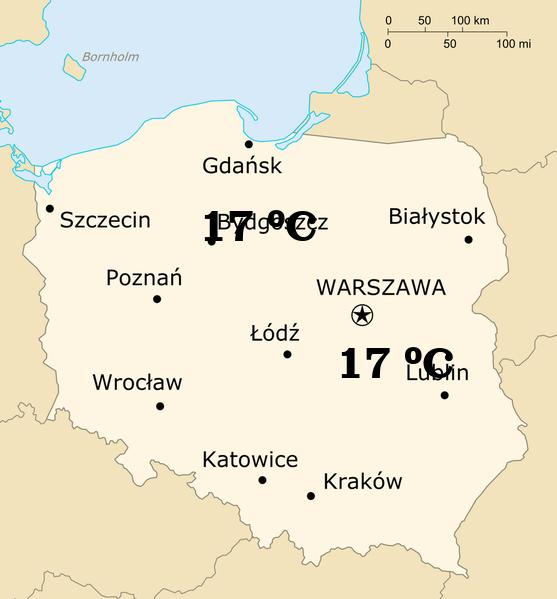
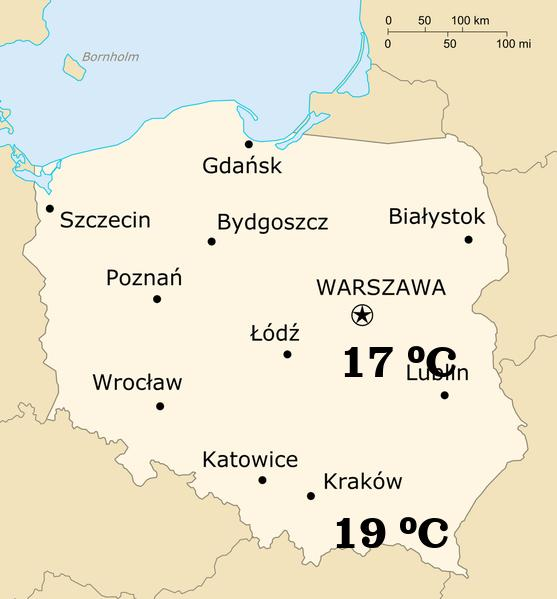
display image on website

Changed region(s): [[0.3662, 0.3306, 0.5799, 0.4207], [0.6104, 0.8414, 0.8241, 0.9316], [0.6104, 0.571, 0.8241, 0.6311]]

diff --git a/web-app/src/main/resources/templates/index.html b/web-app/src/main/resources/templates/index.html
@@ -17,23 +17,26 @@
 <body>
 <div th:replace="fragments/header.html :: header"/>
 <div class="container bg-light text-dark p-4 ">
-    <h1>Prognoza</h1>
+    <img th:src="@{/result.jpg}" />
+<!--    <h1>Prognoza</h1>-->
 
-    <table class="table">
-        <thead>
-        <tr>
-            <th>#</th>
-            <th>Stacja</th>
-            <th>Srednia dobowa temperatura</th>
-        </tr>
-        <tr>
-            <th>1</th>
-            <th>Warszawa - Bielany</th>
-            <th th:text="${temp}">wartosc</th>
-        </tr>
-        </thead>
-    </table>
+<!--    <table class="table">-->
+<!--        <thead>-->
+<!--        <tr>-->
+<!--            <th>#</th>-->
+<!--            <th>Stacja</th>-->
+<!--            <th>Srednia dobowa temperatura</th>-->
+<!--        </tr>-->
+<!--        <tr>-->
+<!--            <th>1</th>-->
+<!--            <th>Warszawa - Bielany</th>-->
+<!--            <th th:text="${temp}">wartosc</th>-->
+<!--        </tr>-->
+<!--        <tr>-->
+<!--            <img src="result.jpg" alt="forecast">-->
+<!--        </tr>-->
+<!--        </thead>-->
+<!--    </table>-->
 </div>
-<img src="E:/Kinga/Studies-mgr/Semestr 3/Praca dyplomowa/System/weather-forecast-predicting-system/result.jpg">
 </body>
 </html>

diff --git a/weather-forecast-predicting-system/actual_weather_prediction.py b/weather-forecast-predicting-system/actual_weather_prediction.py
@@ -6,42 +6,47 @@ import numpy as np
 from numpy import concatenate
 from PIL import Image, ImageFont, ImageDraw
 from constants import *
+
 city = ['warsaw', 'KRAKÓW-OBSERWATORIUM']
-d = {'lat': [52.29958465640118, 50.0649722906938], 'lon': [20.927704121901673, 19.988522784913144]}
-df = DataFrame(data=d)
-actual_data = []
-actual_data = OWMApi.get_actual_weather_data(df['lat'][0], df['lon'][0])
-df = DataFrame(actual_data).transpose()
-values = df.values
-values = values.astype('float32')
-scaler = load('scalers/scaler-' + city[0] + '.joblib')
-values_all = values[:, 0:5]
-values_all = scaler.transform(values_all)
-for i in range(5, 21, 5):
-    values_cut = values[:, i:(i+5)]
-    values_cut = scaler.transform(values_cut)
-    values_all = np.concatenate([values_all, values_cut], axis=1)
-
-values_all = values_all.reshape((values_all.shape[0], N_DAYS, N_FEATURES))
-# load model from single file
-model = load_model('models/lstm_model-' + city[0] + '.h5')
-# make predictions
-yhat = model.predict(values_all)
-values_all = values_all.reshape((values_all.shape[0], N_DAYS*N_FEATURES))
-# invert scaling for forecast
-inv_yhat = concatenate((yhat, values_all[:, -4:]), axis=1)
-inv_yhat = scaler.inverse_transform(inv_yhat)
-inv_yhat = inv_yhat[:, 0]
-result = int(round(inv_yhat[0]))
-
-f = open("result.txt", "w+")
-f.write("%d" % result)
-f.close()
+d = {'lat': [52.29958465640118, 50.0649722906938], 'lon': [20.927704121901673, 19.988522784913144],
+     'x': [340, 332], 'y': [336, 507]}
+df2 = DataFrame(data=d)
 
 my_image = Image.open("E:/Kinga/Studies-mgr/Semestr 3/Praca dyplomowa/map.png")
 title_font = ImageFont.truetype('OrelegaOne-Regular.ttf', 50)
 image_editable = ImageDraw.Draw(my_image)
-image_editable.text((337, 337), "%d °C" % result, (0, 0, 0), font=title_font)
-image_editable.text((200, 200), "%d °C" % result, (0, 0, 0), font=title_font)
-my_image.save("result.jpg")
-print(result)
+
+for j in range(0, 2):
+    actual_data = []
+    actual_data = OWMApi.get_actual_weather_data(df2['lat'][j], df2['lon'][j])
+    df = DataFrame(actual_data).transpose()
+    values = df.values
+    values = values.astype('float32')
+    scaler = load('scalers/scaler-' + city[j] + '.joblib')
+    values_all = values[:, 0:5]
+    values_all = scaler.transform(values_all)
+    for i in range(5, 21, 5):
+        values_cut = values[:, i:(i+5)]
+        values_cut = scaler.transform(values_cut)
+        values_all = np.concatenate([values_all, values_cut], axis=1)
+
+    values_all = values_all.reshape((values_all.shape[0], N_DAYS, N_FEATURES))
+    # load model from single file
+    model = load_model('models/lstm_model-' + city[j] + '.h5')
+    # make predictions
+    yhat = model.predict(values_all)
+    values_all = values_all.reshape((values_all.shape[0], N_DAYS*N_FEATURES))
+    # invert scaling for forecast
+    inv_yhat = concatenate((yhat, values_all[:, -(N_FEATURES-1):]), axis=1)
+    inv_yhat = scaler.inverse_transform(inv_yhat)
+    inv_yhat = inv_yhat[:, 0]
+    result = int(round(inv_yhat[0]))
+    print(result)
+    image_editable.text((df2['x'][j], df2['y'][j]), "%d °C" % result, (0, 0, 0), font=title_font)
+
+my_image.save("E:/Kinga/Studies-mgr/Semestr 3/Praca dyplomowa/System/web-app/src/main/resources/static/result.jpg")
+
+# f = open("result.txt", "w+")
+# f.write("%d" % result)
+# f.close()
+
